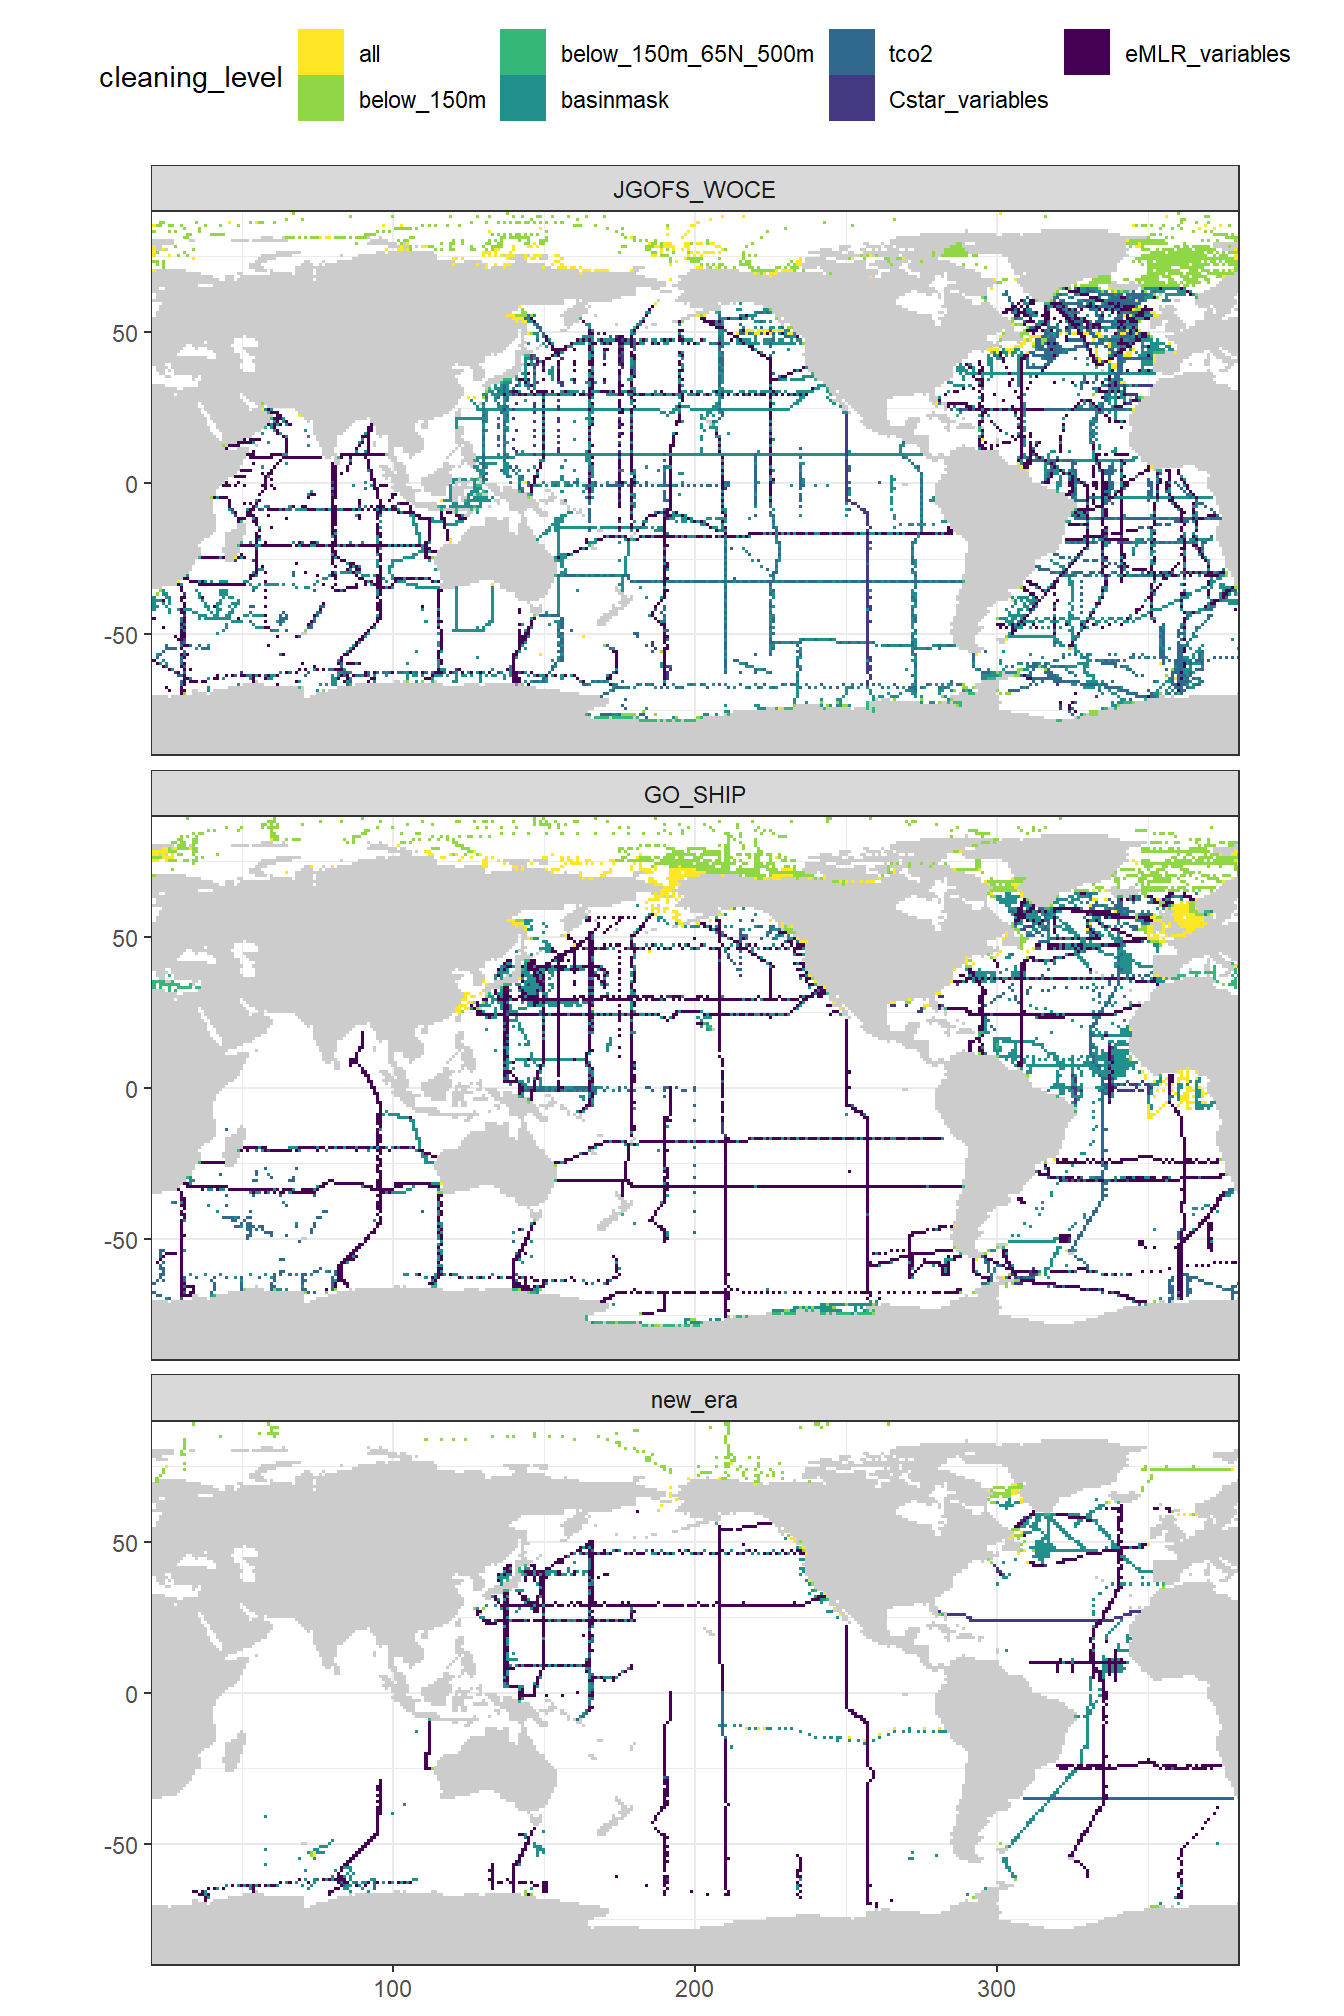
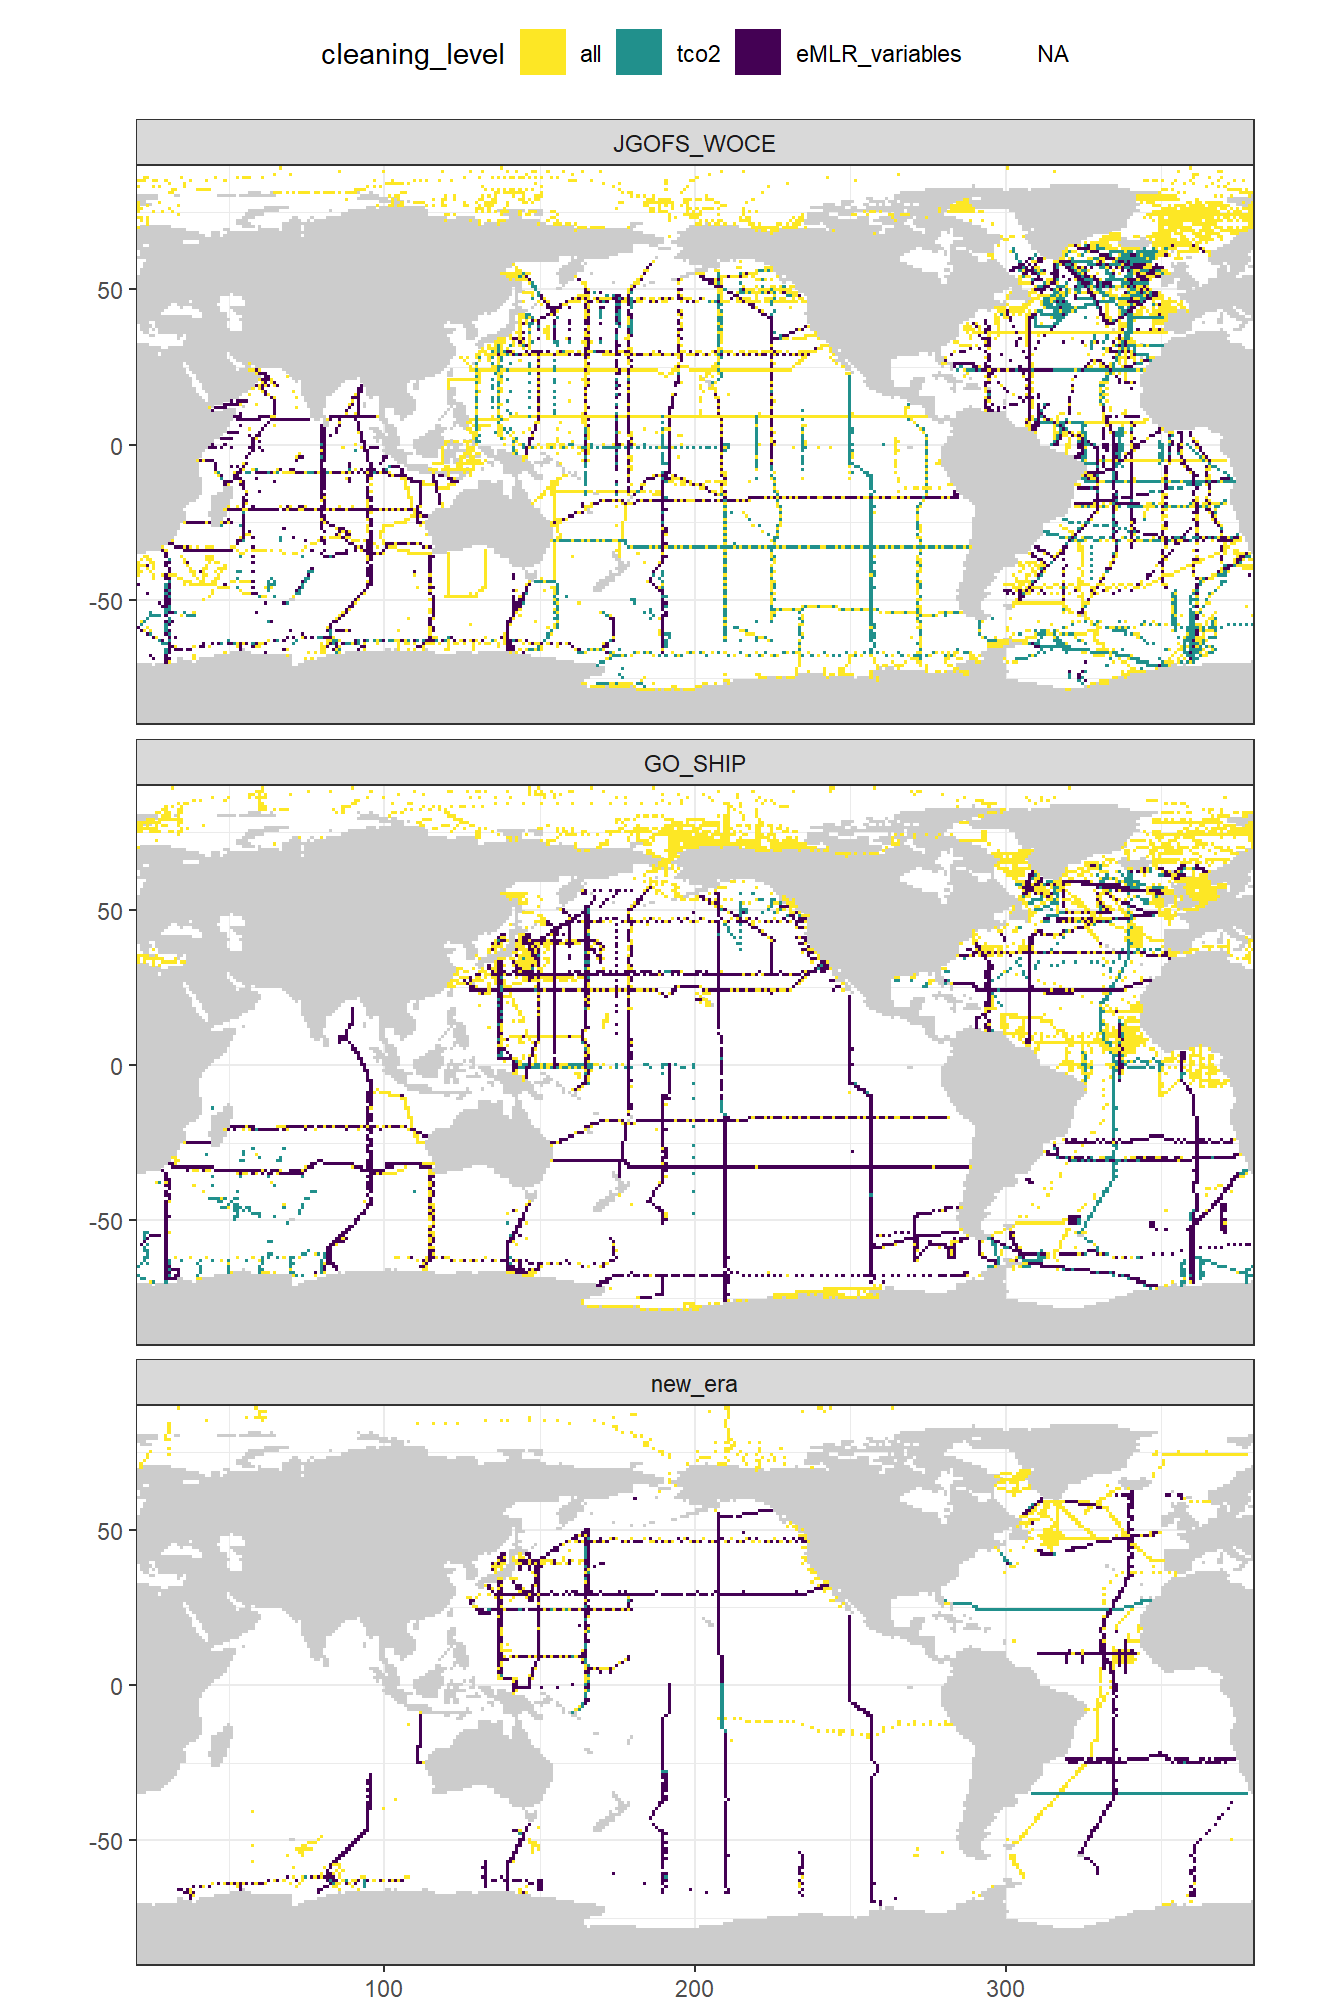
Build site.

diff --git a/docs/read_GLODAPv2_2020.html b/docs/read_GLODAPv2_2020.html
@@ -615,16 +615,16 @@ This reproducible <a href="http://rmarkdown.rstudio.com">R Markdown</a> analysis
 <div class="panel panel-default">
 <div class="panel-heading">
 <p class="panel-title">
-<a data-toggle="collapse" data-parent="#workflowr-checks" href="#strongRepositoryversionstrongahrefhttpsgithubcomjensdanielmuellerCanteMLRtree782c5954e601379c3806df87fa7a2b8b627c3c49targetblank782c595a"> <span class="glyphicon glyphicon-ok text-success" aria-hidden="true"></span> <strong>Repository version:</strong> <a href="https://github.com/jens-daniel-mueller/Cant_eMLR/tree/782c5954e601379c3806df87fa7a2b8b627c3c49" target="_blank">782c595</a> </a>
+<a data-toggle="collapse" data-parent="#workflowr-checks" href="#strongRepositoryversionstrongahrefhttpsgithubcomjensdanielmuellerCanteMLRtreeb047c4b8d32b7c438a4e58386e516fd3aefbb2a1targetblankb047c4ba"> <span class="glyphicon glyphicon-ok text-success" aria-hidden="true"></span> <strong>Repository version:</strong> <a href="https://github.com/jens-daniel-mueller/Cant_eMLR/tree/b047c4b8d32b7c438a4e58386e516fd3aefbb2a1" target="_blank">b047c4b</a> </a>
 </p>
 </div>
[2 lines of base64/hex data omitted]
 <div class="panel-body">
 <p>
 Great! You are using Git for version control. Tracking code development and connecting the code version to the results is critical for reproducibility.
 </p>
 <p>
-The results in this page were generated with repository version <a href="https://github.com/jens-daniel-mueller/Cant_eMLR/tree/782c5954e601379c3806df87fa7a2b8b627c3c49" target="_blank">782c595</a>. See the <em>Past versions</em> tab to see a history of the changes made to the R Markdown and HTML files.
+The results in this page were generated with repository version <a href="https://github.com/jens-daniel-mueller/Cant_eMLR/tree/b047c4b8d32b7c438a4e58386e516fd3aefbb2a1" target="_blank">b047c4b</a>. See the <em>Past versions</em> tab to see a history of the changes made to the R Markdown and HTML files.
 </p>
 <p>
 Note that you need to be careful to ensure that all relevant files for the analysis have been committed to Git prior to generating the results (you can use <code>wflow_publish</code> or <code>wflow_git_commit</code>). workflowr only checks the R Markdown file, but you know if there are other scripts or data files that it depends on. Below is the status of the Git repository when the results were generated:
@@ -681,6 +681,40 @@ Message
 </tr>
 </thead>
 <tbody>
+<tr>
+<td>
+Rmd
+</td>
+<td>
+<a href="https://github.com/jens-daniel-mueller/Cant_eMLR/blob/b047c4b8d32b7c438a4e58386e516fd3aefbb2a1/analysis/read_GLODAPv2_2020.Rmd" target="_blank">b047c4b</a>
+</td>
+<td>
+jens-daniel-mueller
+</td>
+<td>
+2020-09-01
+</td>
+<td>
+subsetting stats for talk and po4
+</td>
+</tr>
+<tr>
+<td>
+html
+</td>
+<td>
+<a href="https://rawcdn.githack.com/jens-daniel-mueller/Cant_eMLR/4049eb01ad7604198af5c98fa8e32c1a75916b6b/docs/read_GLODAPv2_2020.html" target="_blank">4049eb0</a>
+</td>
+<td>
+jens-daniel-mueller
+</td>
+<td>
+2020-09-01
+</td>
+<td>
+Build site.
+</td>
+</tr>
 <tr>
 <td>
 Rmd
@@ -2327,11 +2361,11 @@ GLODAP &lt;- GLODAP %&gt;%
 </div>
 <div id="spatial-boundaries" class="section level2">
 <h2><span class="header-section-number">2.3</span> Spatial boundaries</h2>
+<div id="depth" class="section level3">
+<h3><span class="header-section-number">2.3.1</span> Depth</h3>
 <p>Only observations were taken into consideration with:</p>
 <ul>
 <li>minimum sampling depth: 150m</li>
-<li>minimum bottom depth: 500m</li>
-<li>maximum latitude: 65°N</li>
 </ul>
 <pre class="r"><code>GLODAP_obs_grid &lt;- GLODAP %&gt;% 
   count(lat, lon, era) %&gt;% 
@@ -2343,55 +2377,28 @@ GLODAP_stats &lt;- GLODAP %&gt;%
 ##
 
 GLODAP &lt;- GLODAP %&gt;% 
-  filter(depth &gt;= parameters$depth_min)
-
-##
-
-GLODAP_stats_temp &lt;- GLODAP %&gt;% 
-  summarise(below_150m = n())
-
-GLODAP_stats &lt;- cbind(GLODAP_stats, GLODAP_stats_temp)
-rm(GLODAP_stats_temp)
-
-##
-
-GLODAP_obs_grid_temp &lt;- GLODAP %&gt;% 
-  count(lat, lon, era) %&gt;% 
-  mutate(cleaning_level = &quot;below_150m&quot;)
-
-GLODAP_obs_grid &lt;-
-  bind_rows(GLODAP_obs_grid, GLODAP_obs_grid_temp)
-
-rm(GLODAP_obs_grid_temp)</code></pre>
-<pre class="r"><code>##
-
-GLODAP &lt;- GLODAP %&gt;% 
-  filter(lat &lt;= parameters$lat_max)
-
-GLODAP &lt;- GLODAP %&gt;% 
-  filter(bottomdepth &gt;= parameters$bottomdepth_min)
-
-##
-
-GLODAP_stats_temp &lt;- GLODAP %&gt;% 
-  summarise(below_150m_65N_500m = n())
-
-GLODAP_stats &lt;- cbind(GLODAP_stats, GLODAP_stats_temp)
-rm(GLODAP_stats_temp)
-
-##
-
-GLODAP_obs_grid_temp &lt;- GLODAP %&gt;% 
-  count(lat, lon, era) %&gt;% 
-  mutate(cleaning_level = &quot;below_150m_65N_500m&quot;)
-
-GLODAP_obs_grid &lt;-
-  bind_rows(GLODAP_obs_grid, GLODAP_obs_grid_temp)
-
-rm(GLODAP_obs_grid_temp)</code></pre>
+  filter(depth &gt;= parameters$depth_min)</code></pre>
 </div>
-<div id="basin-mask" class="section level2">
-<h2><span class="header-section-number">2.4</span> Basin mask</h2>
+<div id="latitude" class="section level3">
+<h3><span class="header-section-number">2.3.2</span> Latitude</h3>
+<p>Only observations were taken into consideration with:</p>
+<ul>
+<li>maximum latitude: 65°N</li>
+</ul>
+<pre class="r"><code>GLODAP &lt;- GLODAP %&gt;% 
+  filter(lat &lt;= parameters$lat_max)</code></pre>
+</div>
+<div id="bottomdepth" class="section level3">
+<h3><span class="header-section-number">2.3.3</span> Bottomdepth</h3>
+<p>Only observations were taken into consideration with:</p>
+<ul>
+<li>minimum bottom depth: 500m</li>
+</ul>
+<pre class="r"><code>GLODAP &lt;- GLODAP %&gt;% 
+  filter(bottomdepth &gt;= parameters$bottomdepth_min)</code></pre>
+</div>
+<div id="basin-mask" class="section level3">
+<h3><span class="header-section-number">2.3.4</span> Basin mask</h3>
 <p>The basin mask from the World Ocean Atlas was used. For details consult the data base subsection for <a href="https://jens-daniel-mueller.github.io/Cant_eMLR/read_World_Ocean_Atlas_2018.html">WOA18</a> data.</p>
 <pre class="r"><code>GLODAP_obs &lt;- GLODAP %&gt;% 
   group_by(lat, lon) %&gt;% 
@@ -2416,7 +2423,7 @@ rm(basinmask)
 ##
 
 GLODAP_stats_temp &lt;- GLODAP %&gt;% 
-  summarise(basinmask = n())
+  summarise(spatial_boundaries = n())
 
 GLODAP_stats &lt;- cbind(GLODAP_stats, GLODAP_stats_temp)
 rm(GLODAP_stats_temp)
@@ -2425,21 +2432,24 @@ rm(GLODAP_stats_temp)
 
 GLODAP_obs_grid_temp &lt;- GLODAP %&gt;% 
   count(lat, lon, era) %&gt;% 
-  mutate(cleaning_level = &quot;basinmask&quot;)
+  mutate(cleaning_level = &quot;spatial_boundaries&quot;)
 
 GLODAP_obs_grid &lt;-
   bind_rows(GLODAP_obs_grid, GLODAP_obs_grid_temp)
 
 rm(GLODAP_obs_grid_temp)</code></pre>
 </div>
+</div>
 <div id="flags-and-missing-data" class="section level2">
-<h2><span class="header-section-number">2.5</span> Flags and missing data</h2>
+<h2><span class="header-section-number">2.4</span> Flags and missing data</h2>
 <p>Only rows (samples) for which all relevant parameters are available were selected. In additions, following flagging criteria were applied:</p>
 <ul>
 <li>flag_f: 2</li>
 <li>flag_qc: 1</li>
 </ul>
 <p>Summary statistics were calculated during cleaning process.</p>
+<div id="tco2" class="section level3">
+<h3><span class="header-section-number">2.4.1</span> tco2</h3>
 <pre class="r"><code>GLODAP &lt;- GLODAP %&gt;% 
   filter(!is.na(tco2))
 
@@ -2469,6 +2479,9 @@ GLODAP_obs_grid &lt;-
   bind_rows(GLODAP_obs_grid, GLODAP_obs_grid_temp)
 
 rm(GLODAP_obs_grid_temp)</code></pre>
+</div>
+<div id="c-variables" class="section level3">
+<h3><span class="header-section-number">2.4.2</span> C* variables</h3>
 <pre class="r"><code>GLODAP &lt;- GLODAP %&gt;% 
   filter(!is.na(talk))
 
@@ -2479,6 +2492,27 @@ GLODAP &lt;- GLODAP %&gt;%
 GLODAP &lt;- GLODAP %&gt;% 
   filter(talkqc == parameters$flag_qc) %&gt;% 
   select(-talkqc)
+
+##
+
+GLODAP_stats_temp &lt;- GLODAP %&gt;% 
+  summarise(talk = n())
+
+GLODAP_stats &lt;- cbind(GLODAP_stats, GLODAP_stats_temp)
+rm(GLODAP_stats_temp)
+
+##
+
+GLODAP_obs_grid_temp &lt;- GLODAP %&gt;% 
+  count(lat, lon, era) %&gt;% 
+  mutate(cleaning_level = &quot;talk&quot;)
+
+GLODAP_obs_grid &lt;-
+  bind_rows(GLODAP_obs_grid, GLODAP_obs_grid_temp)
+
+rm(GLODAP_obs_grid_temp)
+
+
 
 ##
 
@@ -2497,7 +2531,7 @@ GLODAP &lt;- GLODAP %&gt;%
 ##
 
 GLODAP_stats_temp &lt;- GLODAP %&gt;% 
-  summarise(Cstar_variables = n())
+  summarise(PO4 = n())
 
 GLODAP_stats &lt;- cbind(GLODAP_stats, GLODAP_stats_temp)
 rm(GLODAP_stats_temp)
@@ -2506,12 +2540,15 @@ rm(GLODAP_stats_temp)
 
 GLODAP_obs_grid_temp &lt;- GLODAP %&gt;% 
   count(lat, lon, era) %&gt;% 
-  mutate(cleaning_level = &quot;Cstar_variables&quot;)
+  mutate(cleaning_level = &quot;PO4&quot;)
 
 GLODAP_obs_grid &lt;-
   bind_rows(GLODAP_obs_grid, GLODAP_obs_grid_temp)
 
 rm(GLODAP_obs_grid_temp)</code></pre>
+</div>
+<div id="emlr-variables" class="section level3">
+<h3><span class="header-section-number">2.4.3</span> eMLR variables</h3>
 <pre class="r"><code>GLODAP &lt;- GLODAP %&gt;% 
   filter(!is.na(tem))
 
@@ -2603,8 +2640,9 @@ GLODAP_obs_grid &lt;-
   bind_rows(GLODAP_obs_grid, GLODAP_obs_grid_temp)
 
 rm(GLODAP_obs_grid_temp)</code></pre>
+</div>
 <div id="manual-adjustment-a16-cruise" class="section level3">
-<h3><span class="header-section-number">2.5.1</span> Manual adjustment A16 cruise</h3>
+<h3><span class="header-section-number">2.4.4</span> Manual adjustment A16 cruise</h3>
 <p>For harmonization with Gruber et al. (2019), cruises 1041 (A16N) and 1042 (A16S) were grouped into the GO_SHIP area despite taking place in 2013/14.</p>
 <pre class="r"><code>GLODAP_cruises &lt;- GLODAP %&gt;% 
   filter(basin == &quot;Atlantic&quot;,
@@ -2629,7 +2667,7 @@ ggplot() +
 </div>
 </div>
 <div id="write-summary-file" class="section level2">
-<h2><span class="header-section-number">2.6</span> Write summary file</h2>
+<h2><span class="header-section-number">2.5</span> Write summary file</h2>
 <pre class="r"><code>GLODAP_stats_long &lt;- GLODAP_stats %&gt;%
   pivot_longer(1:length(GLODAP_stats),
                names_to = &quot;parameter&quot;,
@@ -2822,7 +2860,7 @@ GLODAP_obs_grid %&gt;%
         axis.title = element_blank())</code></pre>
 <p><img src="figure/read_GLODAPv2_2020.Rmd/coverage_maps_era_subsetting-1.png" width="672" style="display: block; margin: auto;" /></p>
 </div>
-<div id="emlr-variables" class="section level3">
+<div id="emlr-variables-1" class="section level3">
 <h3><span class="header-section-number">3.6.2</span> eMLR variables</h3>
 <p>Grey pixels refer to sampling locations filtered for availability of tco2 data only.</p>
 <pre class="r"><code>GLODAP &lt;- GLODAP %&gt;% 
